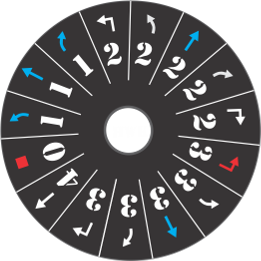
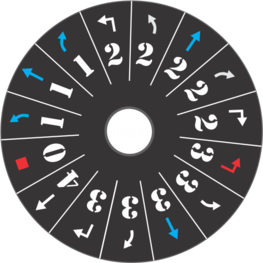
(1) new dials for scum (2) selected maneuver sprite

diff --git a/html/game.js b/html/game.js
@@ -7,6 +7,9 @@ var init_dials = [];
 // the spinning wheel DIALS
 var wheel = {};
 
+// red frame selector
+var selector = {}
+
 //
 var lock = {};
 
@@ -198,6 +201,7 @@ playGame.prototype = {
             game.load.image("unlock", "unlock.png");
             game.load.image("lock", "lock.png");
             game.load.image("pin", "pin.png");     
+            game.load.image("dial_selector", "dial_selector.png")
             Phaser.Canvas.setTouchAction(game.canvas, "auto"); // disable the default "none" so enable scroll
             game.input.touch.preventDefault = false;
 
@@ -209,25 +213,29 @@ playGame.prototype = {
 
         for (var i=0;i<dials;i++) {
             var key = "wheel_"+i;
+
             // add the back dial
             var backdial = game.add.sprite(game.width / 2 , 350*(i+0.5)+20, "rebel_back" );
             backdial.anchor.set(0.5);
 
             // adding the wheel in the middle of the canvas
             wheel[key] = game.add.sprite(game.width / 2 , 350*(i+0.5)+20, init_dials[i].ship_id+"_dial" );
-
-            // setting wheel registration point in its center
             wheel[key].anchor.set(0.5);
             wheel[key].inputEnabled = true;
             wheel[key].__mykey = key;
             game.add.tween(wheel[key]).to({angle:angles[key]},500,Phaser.Easing.Quadratic.Out,true);
 
             // to lock/unlock the dial
-            lock[key] = game.add.sprite(game.width-64, 350*i+20, 'lock' )
+            lock[key] = game.add.sprite(game.width-64, 350*i+20, 'unlock' )
             lock[key].inputEnabled = true;
             lock[key].__mykey = key;
             lock[key].events.onInputDown.add(this.toggleLockDial,this);
             lock[key].events.onInputUp.add(this.releaseLockDial,this);
+
+            // dial selector
+            selector[key] = game.add.sprite( game.width/2, 350*i+100, "dial_selector" );
+            selector[key].anchor.set(0.5);
+            selector[key].inputEnabled = false;
 
             // text
             var tmp_id = init_dials[i].ship_id+init_dials[i].pilot_name
@@ -247,14 +255,16 @@ playGame.prototype = {
         saveState();
 	},
     toggleLockDial(o,e){
-        if ( o.key=='lock' ) {
-            o.loadTexture( 'unlock' )
+        if ( o.key=='unlock' ) {
+            o.loadTexture( 'lock' )
             wheel[o.__mykey].alpha =  0.0
             wheel[o.__mykey].inputEnabled = false
+            selector[o.__mykey].alpha = 0.0;
         } else {
-            o.loadTexture( 'lock' )
+            o.loadTexture( 'unlock' )
             wheel[o.__mykey].alpha =  1.0
             wheel[o.__mykey].inputEnabled = true
+            selector[o.__mykey].alpha = 1.0;
         }
         game.input.touch.preventDefault = true; // disable scroll for now
     },
